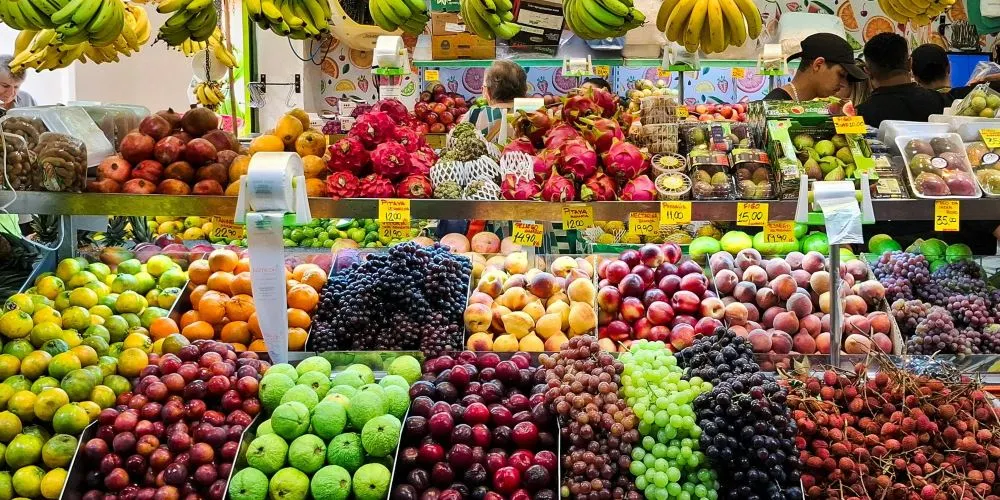
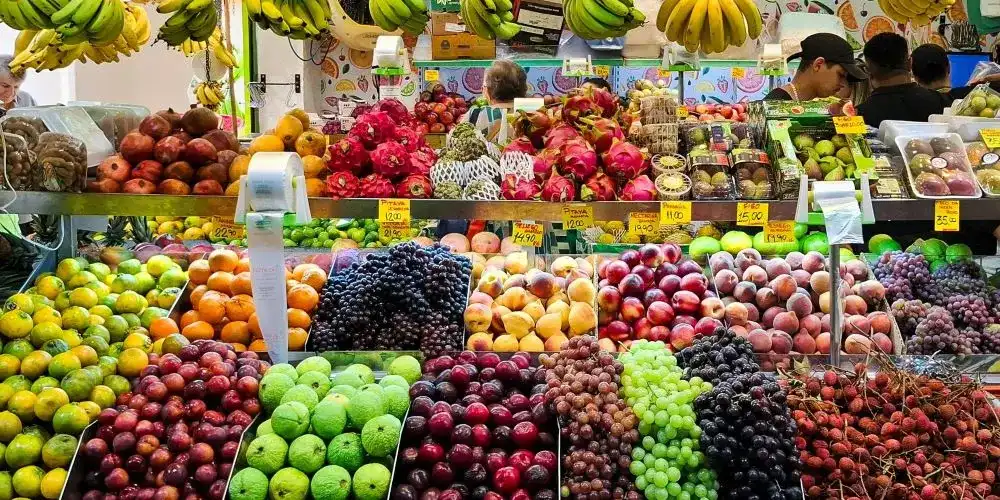
Render

diff --git a/finalproject/styles/delifruit.css b/finalproject/styles/delifruit.css
@@ -14,30 +14,24 @@ body {
     font-family: "Nunito", sans-serif;
 }
 
-
 /* header */
-header h1 {
-    display: block;
-    color: var(--text-color);
-    font-size: 20px;
-    padding-top: 1rem;
-    margin: 0;
-}
-
-.navigation a.active {
-    color: var(--text-color2);
-    background-color: var(--secondary-theme);
-    text-decoration: underline;
-    font-weight: bold;
-}
-
 header {
     background-color: var(--primary-theme);
     text-align: center;
     color: var(--text-color);
-
 }
- /* Hambuerguer  */
+
+/* site title */
+#course-title {
+    display: block;
+    color: var(--text-color);
+    font-size: 1.8rem;
+    font-family: "New Amsterdam", sans-serif;
+    padding: 0.75rem 0;
+    margin: 0;
+}
+
+/* hamburger */
 #menu {
     border: 0;
     background: none;
@@ -58,7 +52,6 @@ header {
 
 .navigation {
     list-style: none;
-    /* width: 100%; */
     display: flex;
     flex-direction: column;
     justify-content: space-around;
@@ -69,10 +62,11 @@ header {
 .navigation li {
     flex: 1 1 auto;
 }
+
 nav ul li:hover {
     background-color: var(--third-theme);
-       
 }
+
 ul.navigation {
     color: var(--text-color);
     padding: 0;
@@ -93,6 +87,13 @@ ul.navigation {
     text-decoration-color: var(--third-theme);
 }
 
+.navigation a.active {
+    color: var(--text-color2);
+    background-color: var(--secondary-theme);
+    text-decoration: underline;
+    font-weight: bold;
+}
+
 .open a {
     display: block;
 }
@@ -102,110 +103,122 @@ main {
     text-align: center;
     margin: 0 auto;
 }
-.heroimg{
+
+.heroimg {
     width: 100%;
     margin: 0;
 }
 
-
-#fruits{
-    display: block;
-    border: none;
-    background-image: linear-gradient(var(--primary-theme), var(--secondary-theme));
-    color: var(--text-color);
-    border-radius: 6px;
-    padding: .8rem;
-    width: 90px;
-    margin-right: 30px;
-    box-shadow: 1px 1px 4px var(--fourth-theme);
-
-}
-
+/* filter buttons */
+#all,
+#fruits,
 #vege {
     display: block;
     border: none;
     background-image: linear-gradient(var(--primary-theme), var(--secondary-theme));
     color: var(--text-color);
     border-radius: 6px;
-    padding: .8rem;
-    width: 90px;
-    box-shadow: 1px 1px 4px var(--fourth-theme);
+    padding: 0.6rem 1rem;
+    text-decoration: none;
+    font-weight: 700;
+    box-shadow: 1px 1px 4px rgba(0,0,0,0.2);
 }
-.linkfruit{
-    display: grid;
-    grid-template-columns: auto auto;
+
+.linkfruit {
+    display: flex;
+    gap: 0.5rem;
     justify-content: center;
     list-style: none;
-    
+    padding: 0;
+    margin: 0.5rem 0;
 }
-/* ----------------------Plan section--------------------------- */
 
-.divp{
+/* active filter */
+.linkfruit a.active-filter {
+    background-image: linear-gradient(#1B5E20, #388E3C);
+    outline: 2px solid var(--third-theme);
+}
+
+/* plan section */
+.divp {
     border: 1px solid var(--secondary-theme);
     border-radius: 10px;
     margin-top: 10px;
     margin-bottom: 10px;
 }
 
-.divp img{
+.divp img {
     width: 100%;
     border-radius: 10px 10px 0px 0px;
 }
 
-.plans{
-    display: block;
-}
-
-.links{
+.links {
     display: block;
     border-radius: 0px 0px 10px 10px;
-    padding: .75rem;
+    padding: 0.75rem;
     text-decoration: none;
     color: var(--text-color);
     background-color: var(--primary-theme);
 }
 
+.plan-price {
+    font-weight: 700;
+    font-size: 1.1rem;
+    color: var(--primary-theme);
+}
 
-/* --------------------- Fruit and Vege Page----------------------- */
+/* food page */
+.page-heading {
+    margin: 1rem 0 0.5rem;
+}
 
-.foodcart{
+.food-hint {
+    font-size: 0.85rem;
+    color: #555;
+    margin-bottom: 0.5rem;
+}
+
+.foodcart {
     border: 3px solid var(--secondary-theme);
     border-radius: 20px;
     margin-top: 10px;
     margin-bottom: 10px;
-    font-size: 19px;
+    font-size: 0.95rem;
+    cursor: pointer;
+    transition: box-shadow 0.2s;
+    overflow: hidden;
 }
 
-.foodcart img{
-    width: 100%;
+.foodcart:hover,
+.foodcart:focus {
+    box-shadow: 0 4px 16px rgba(46,125,50,0.3);
+    outline: 2px solid var(--primary-theme);
 }
-.food{
+
+.foodcart img {
+    width: 100%;
     display: block;
 }
 
-/* ------Form------- */
-
+/* form */
 .wf1 legend,
-.wf1 label{
+.wf1 label {
     display: block;
     text-align: left;
-    padding-top: .5rem;
-    font-size: .9rem;
+    padding-top: 0.5rem;
+    font-size: 0.9rem;
 }
 
 .wf1 input[type="text"],
-.wf1 input[type="textarea"],
-.wf1 input[type="date"],
 .wf1 input[type="email"],
-.wf1 input[type="number"],
-.wf1 select,
-.wf1 textarea{
-    
+.wf1 input[type="tel"],
+.wf1 input[type="date"],
+.wf1 textarea {
     display: block;
     background-color: var(--fourth-theme);
     border: solid 1px var(--text-color2);
     border-radius: 2px;
-    padding: .75rem;
+    padding: 0.75rem;
     color: var(--primary-theme);
     width: 100%;
     max-width: 300px;
@@ -220,29 +233,31 @@ main {
     border-left: solid 8px var(--valid-color);
 }
 
-.formtitle{
+.formtitle {
     display: block;
     text-align: left;
 }
+
 .wf1 input[type="submit"] {
     border: none;
     background-image: linear-gradient(var(--primary-theme), var(--secondary-theme));
     color: var(--text-color);
     border-radius: 6px;
-    padding: .8rem;
+    padding: 0.8rem;
     width: 96%;
     max-width: 400px;
     margin: -1rem 2% 2rem 2%;
     box-shadow: 1px 1px 4px var(--fourth-theme);
 }
-/* ---- Modal ---- */
+
+/* modal */
 #food-modal {
     border: none;
     border-radius: 12px;
     padding: 0;
     max-width: 480px;
     width: 90%;
-    box-shadow: 0 8px 32px var(--text-color2);
+    box-shadow: 0 8px 32px var(--backdrop-color);
 }
 
 #food-modal::backdrop {
@@ -304,6 +319,21 @@ main {
     border-bottom: none;
 }
 
+/* review page */
+.review-main {
+    max-width: 700px;
+    margin: 0 auto;
+    padding: 1rem;
+}
+
+.review-back {
+    display: inline-block;
+    width: auto;
+    border-radius: 6px;
+    padding: 0.75rem 1.5rem;
+    margin-top: 0.5rem;
+}
+
 /* attributions page */
 .attributions-main {
     max-width: 800px;
@@ -314,7 +344,6 @@ main {
 
 /* footer */
 footer {
-
     background-color: var(--primary-theme);
     font-size: 15px;
     text-align: center;
@@ -322,6 +351,11 @@ footer {
 }
 
 footer p {
-    margin: 0px;
-    padding: .30rem;
+    margin: 0;
+    padding: 0.3rem;
+}
+
+footer a {
+    color: var(--third-theme);
+    text-decoration: underline;
 }